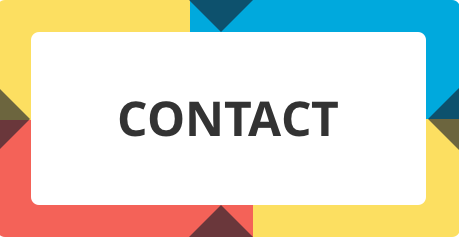
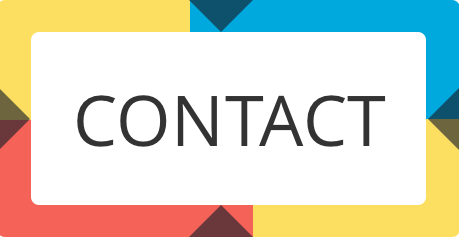
add space letter, line-height and then change the button style

Changed region(s): [[0.1525, 0.384, 0.854, 0.6203]]

diff --git a/app/assets/stylesheets/welcome.scss b/app/assets/stylesheets/welcome.scss
@@ -1,15 +1,12 @@
-// Place all the styles related to the welcome controller here.
-// They will automatically be included in application.css.
-// You can use Sass (SCSS) here: http://sass-lang.com/
-
 // Initialize
 * {
 	box-sizing: border-box;
 }
 
-html, body, p, h1, h2, h3, ul {
+html, body, p, h1, h2, ul {
 	margin:0;
 	padding: 0;
+	letter-spacing: 0.6px;
 }
 
 img {
@@ -21,8 +18,8 @@ img {
 
 //UI Library
 $header-font: Open Sans, san-serif;
-$description-font: 'EB Garamond';
-$body-padding: 3%;
+$description-font: 'EB Garamond', serif;
+$body-padding: 5% 10%;
 
 html {
 	font-family: $header-font;
@@ -31,14 +28,13 @@ html {
 
 .wrapper {
 	background-color: white;
-	max-width: 1000px;
 	margin: 0 auto;
 	height: 100vh;
 }
 
 header{
 	display: flex;
-	padding: 20px 0;
+	padding: 10px 3% 10px 3%;
 	flex-shrink: 0;
 }
 
@@ -46,6 +42,7 @@ header{
 	margin-right: auto;
 	height: 50px;
 	line-height: 50px;
+	letter-spacing: 1px;
 }
 
 .header__nav {
@@ -63,10 +60,10 @@ header{
 	line-height: 50px;
 }
 
-.header__contact__button {
-	height: 50px;
-	width: 150px;
+.header__contact__button li {
+	width: 100px;
 }
+
 @media screen and (max-width: 1000px) {
 	header {
 		flex-direction: column;
@@ -75,11 +72,11 @@ header{
 
 	.header__brand {
 		margin: auto;
-		font-size: 30px;
+		font-size: 22px;
 	}
 
 	.header__nav {
-		justify-conent: center;
+		justify-content: center;
 	}
 
 	.header__nav li a {
@@ -98,26 +95,19 @@ header{
 	font-size: 36px;
 }
 
-main {
-	flex-grow: 1;
-}
-
 .about__me {
 	min-height: 100px;
 	line-height: 100px;
-	background: #0087b0;
-	// background: rgba(240,22,82,0.9);
-	font-family: $description-font;
-	color: white;
-	padding: 0 3%;
-	font-size: 25px;
+	// background: #0087b0;
+	background: #e5f6fb;
+	font-family: $header-font;
+	color: #333;
+	font-size: 22px;
+	text-align: center;
 }
 
 .portfolio {
-	// display: flex;
-	justify-content: space-between;
-
-	background: #e5f6fb;
+	background: white;
 	font-family: $header-font;
 	color: #333;
 	padding: $body-padding;
@@ -125,7 +115,6 @@ main {
 
 .portfolio__design__and__development {
 	background: #e5f6fb;
-	padding: 25px;
 	font-family: $header-font;
 	color: #333;
 	display: flex;
@@ -133,27 +122,32 @@ main {
 
 .portfolio__design {
 	background: #e5f6fb;
-	padding: 25px;
 	font-family: $header-font;
 	color: #333;
 	display: flex;
 }
 .portfolio__design__happytribe__live {
-	width: 1000px;
+	width: 50%;
 }
 
 .portfolio__design__superhero {
-	width: 500px;
+	width: 20%;
 }
 
 .portfolio__description {
 	padding: 0 3%;
-
 }
 
 .portfolio__description p{
 	font-family: $description-font;
-	padding: 3% 0;
+	letter-spacing: 0.8px;
+	line-height: 1.6;
+}
+
+@media screen and (max-width: 1300px) {
+	.portfolio__design__happytribe__live {
+		width: 500px;
+	}
 }
 
 .contact__me {
